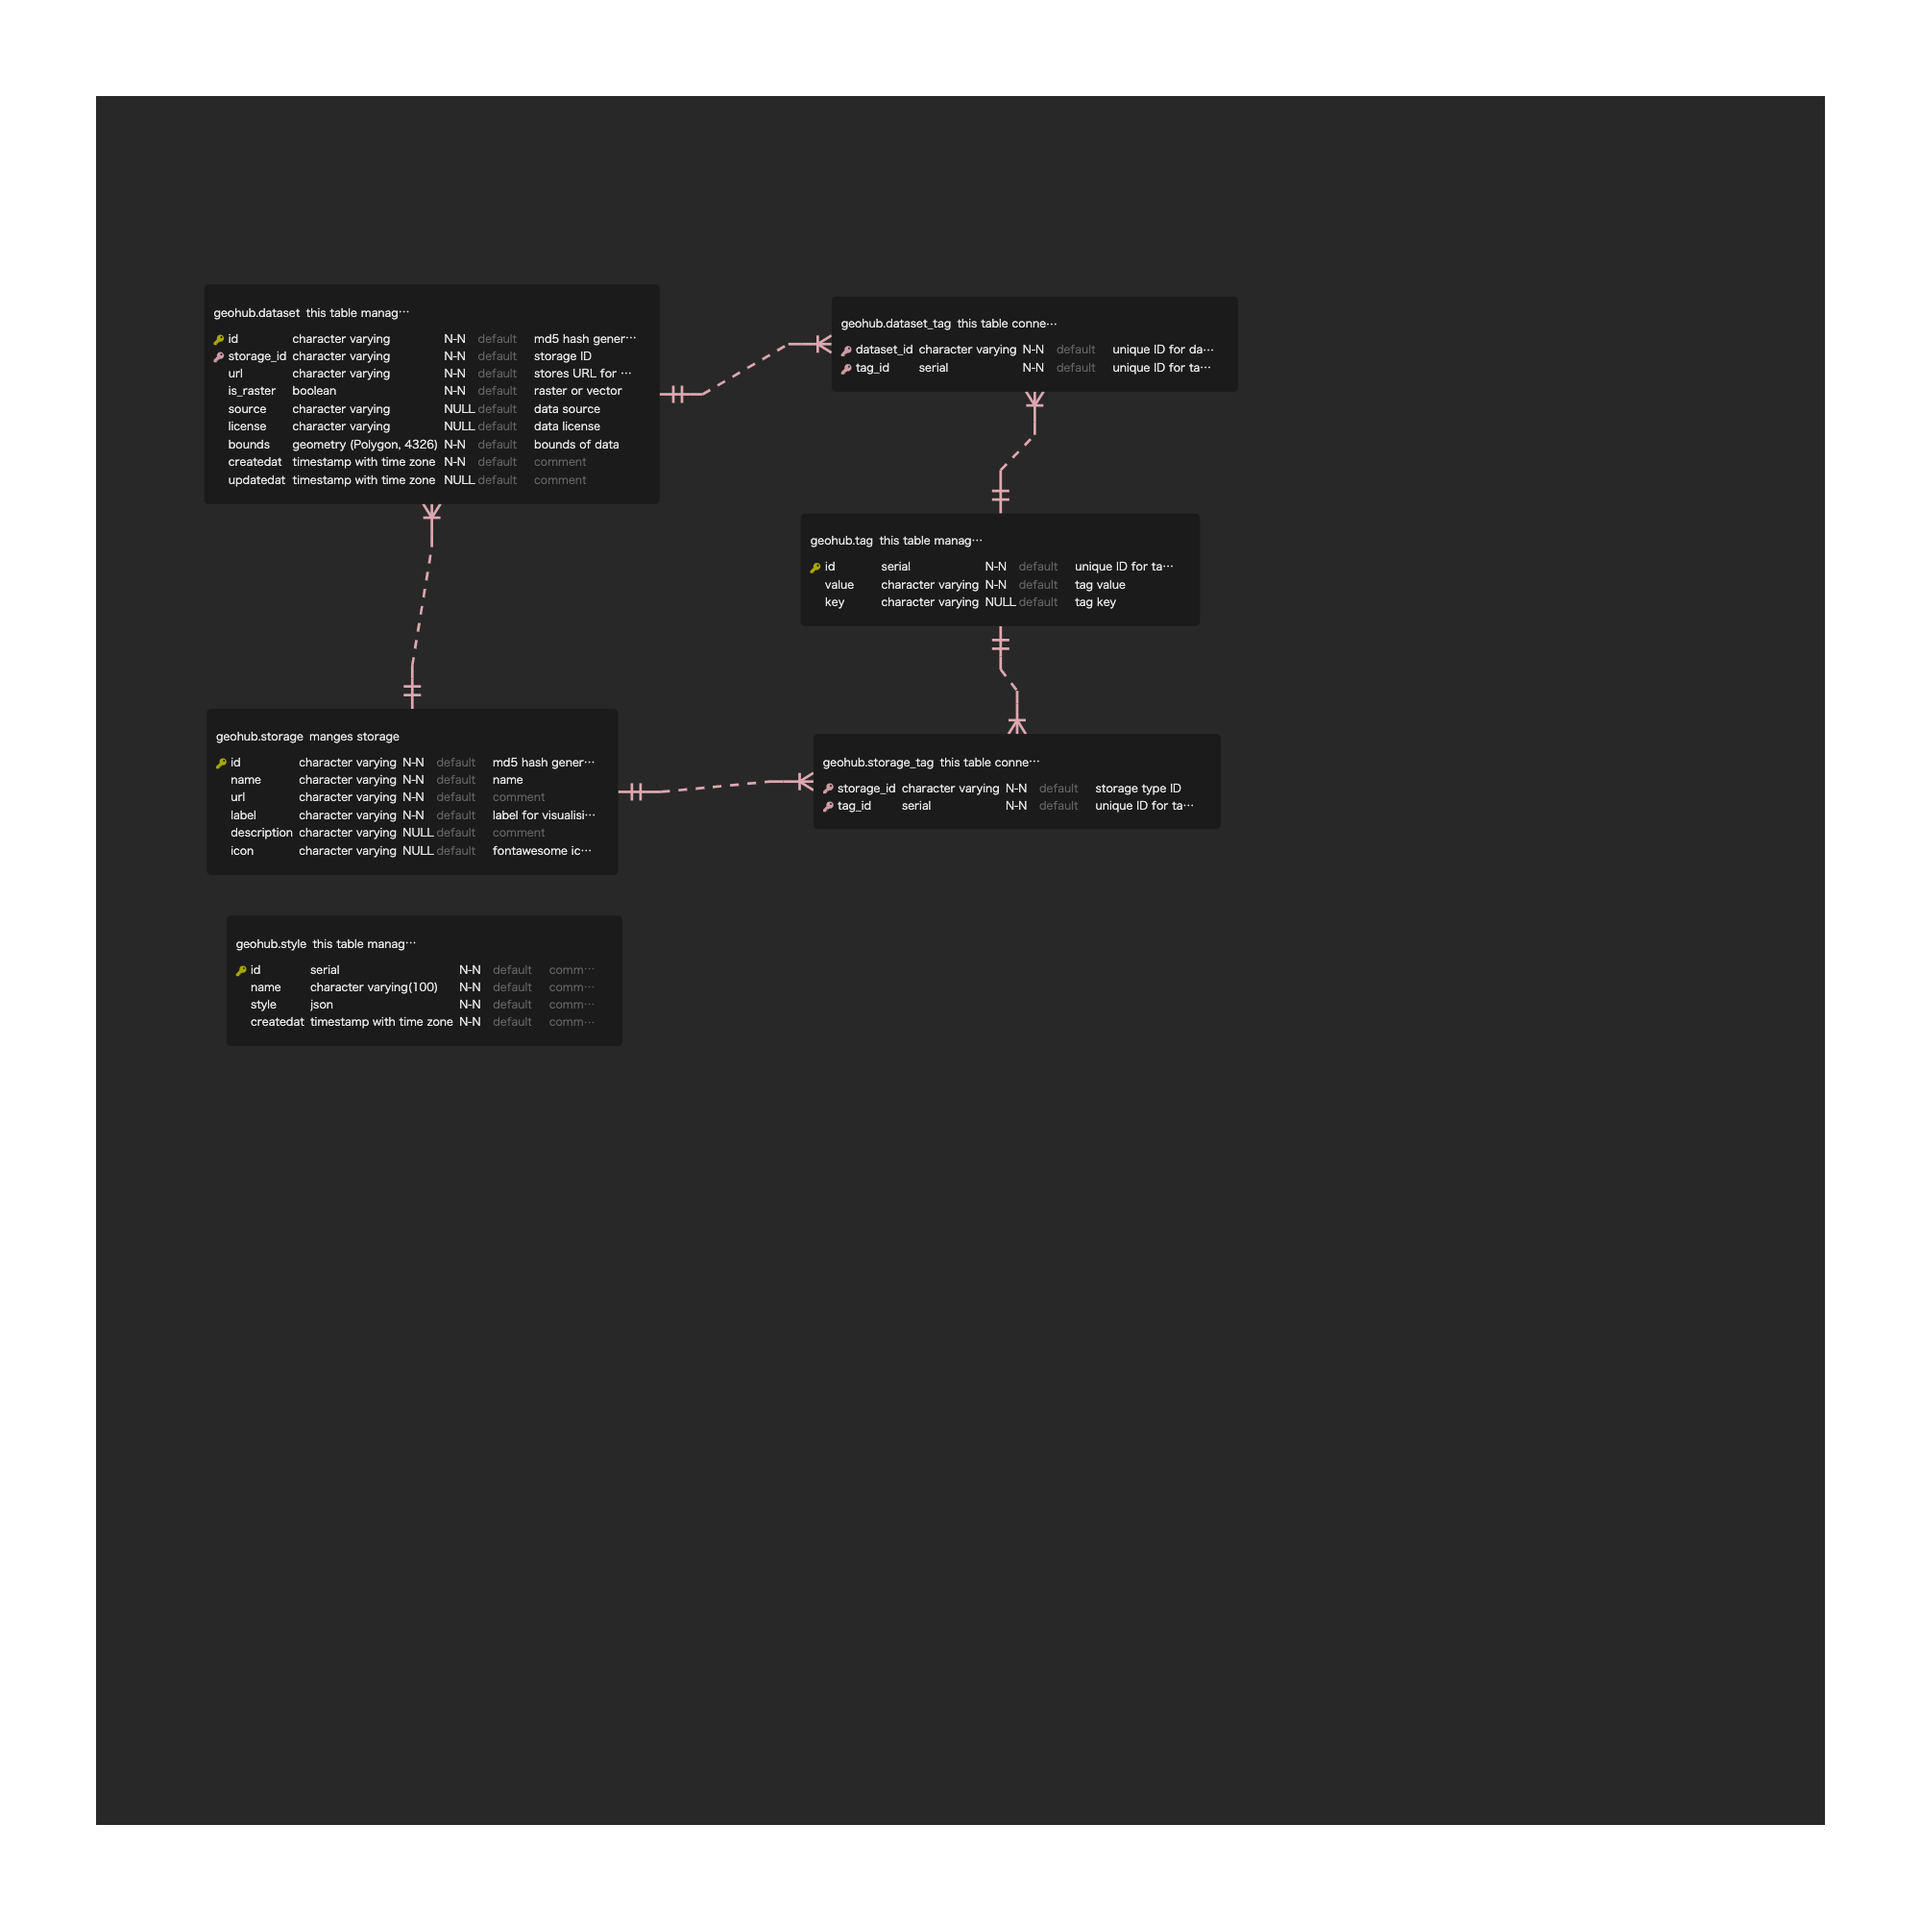
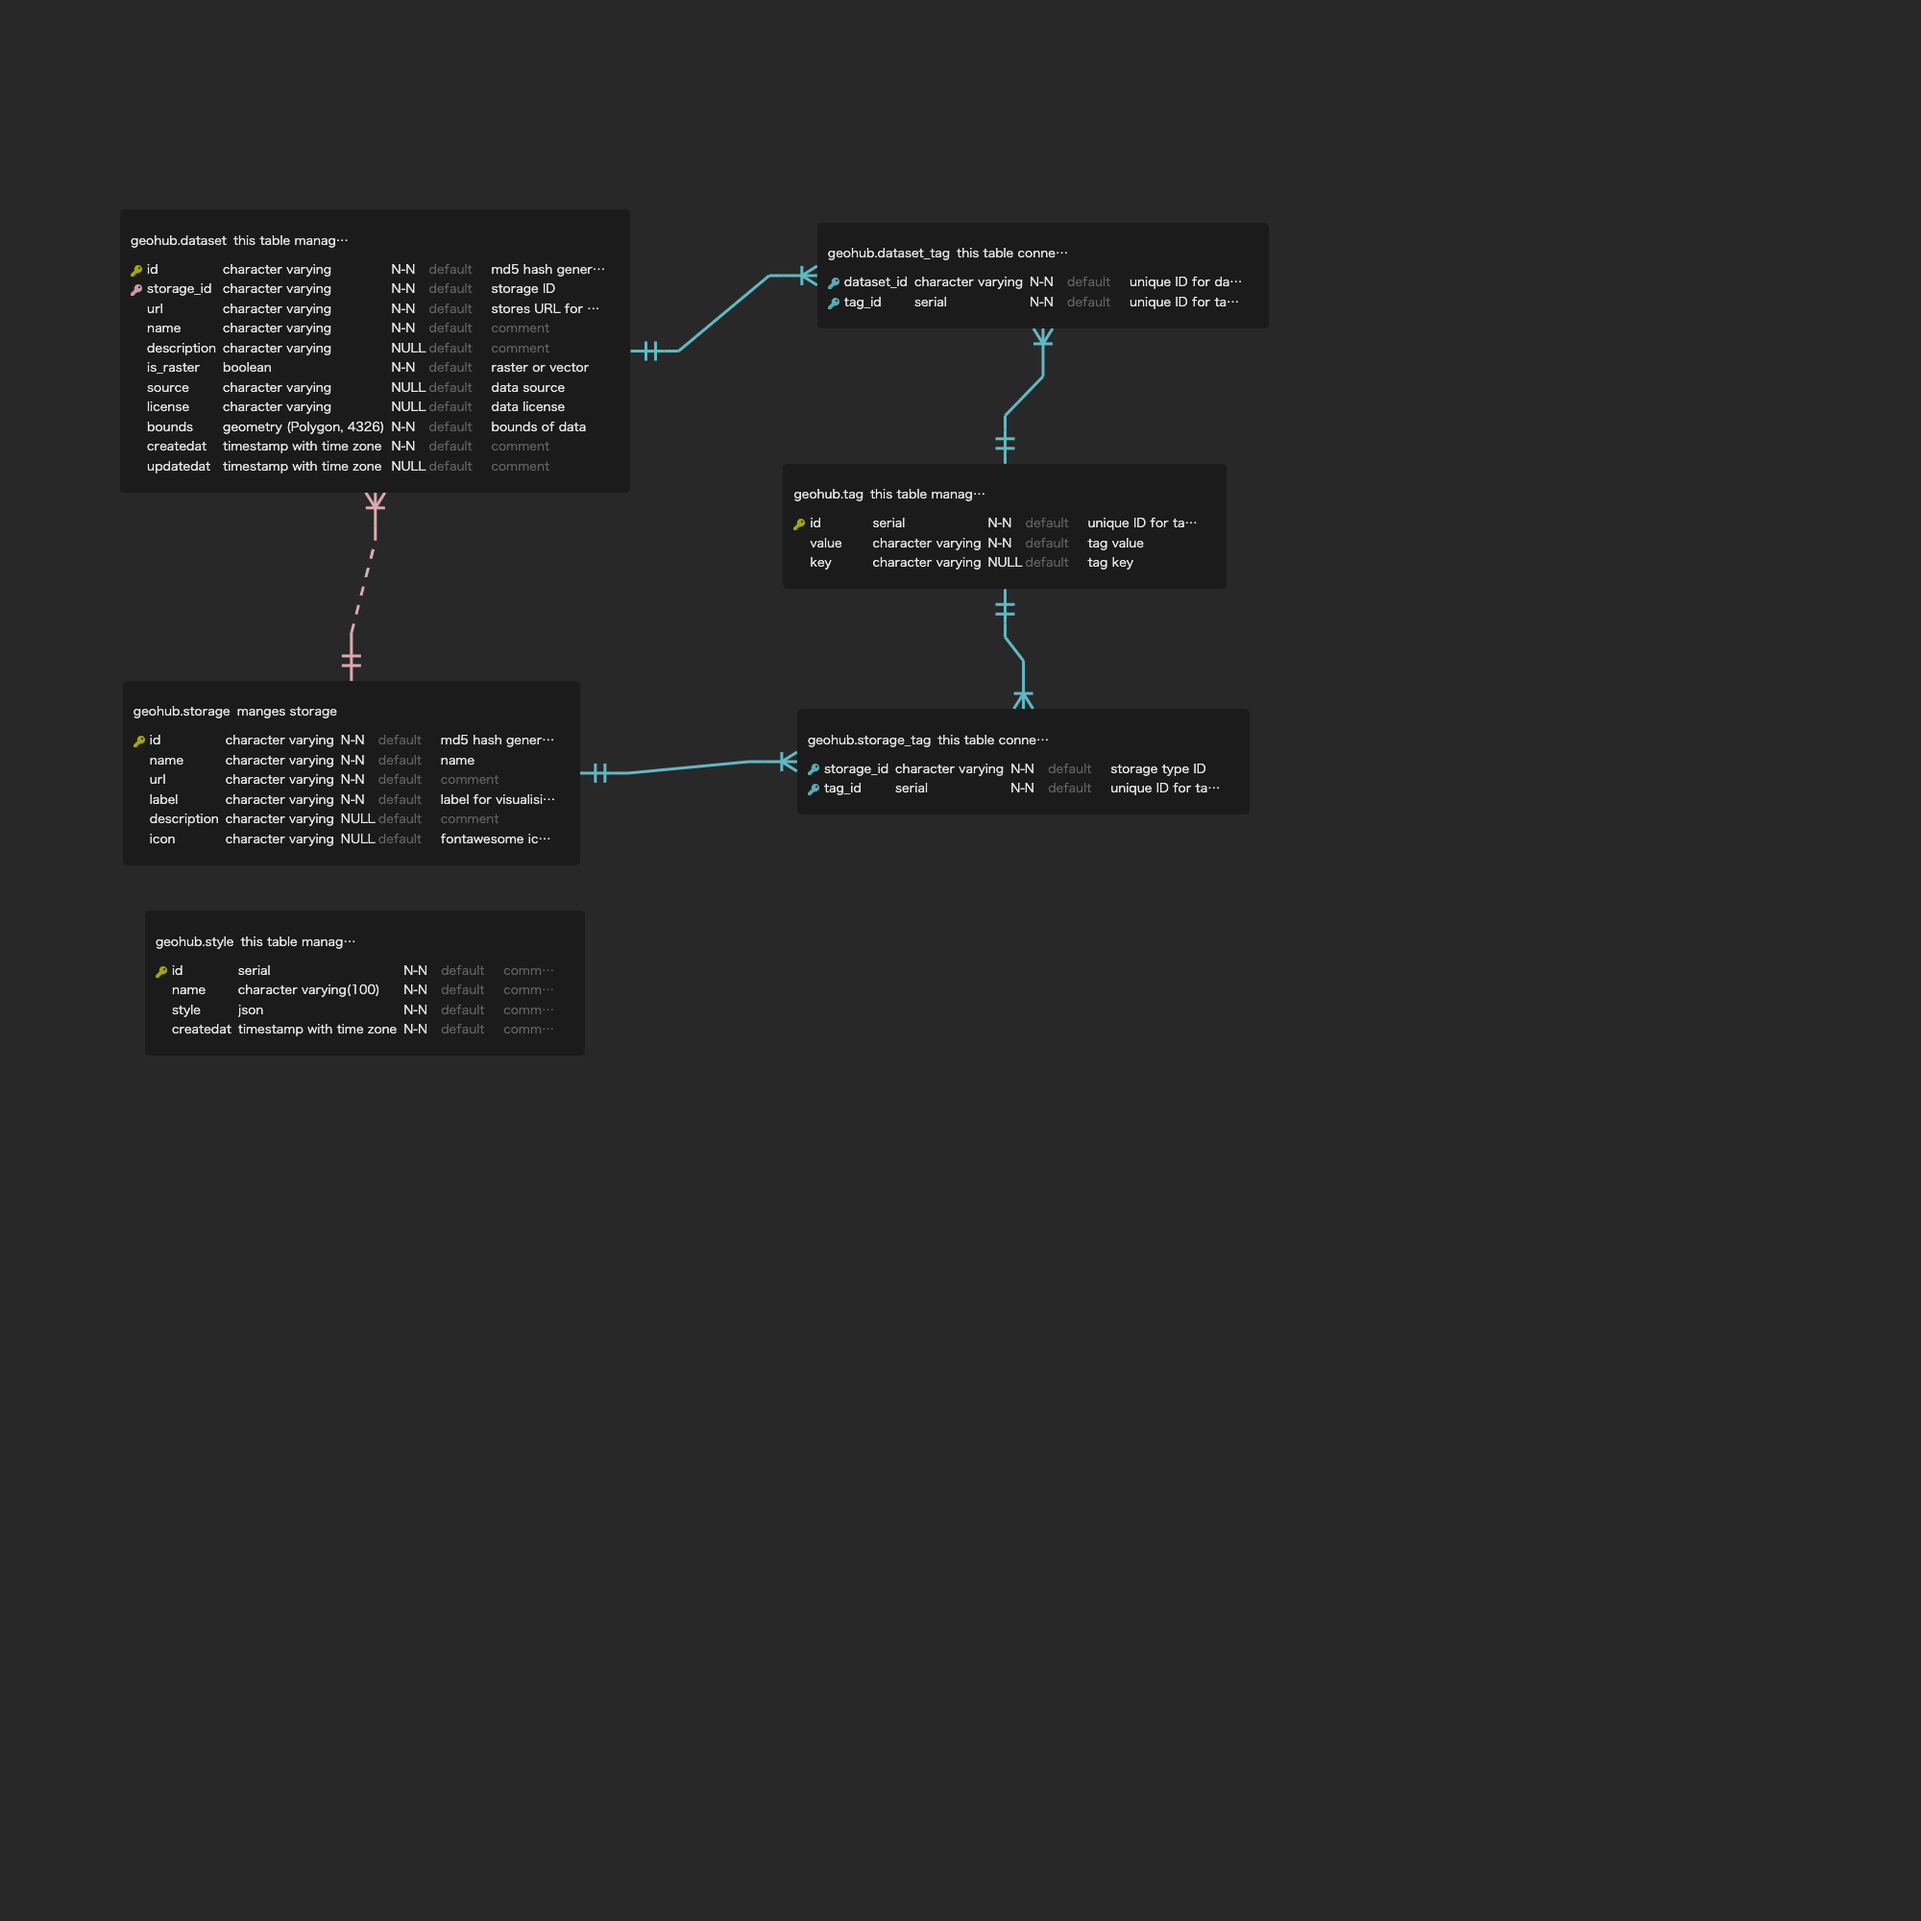
added name, description from metadata (#4)

diff --git a/src/util/BlobServiceAccountManager.ts b/src/util/BlobServiceAccountManager.ts
@@ -4,7 +4,14 @@ import {
 	ServiceListContainersOptions,
 	StorageSharedKeyCredential
 } from '@azure/storage-blob';
-import type { ContainerMetadata, Dataset, Storage, Tag } from '../interfaces';
+import type {
+	BandMetadata,
+	ContainerMetadata,
+	Dataset,
+	RasterTileMetadata,
+	Storage,
+	Tag
+} from '../interfaces';
 import {
 	generateHashKey,
 	generateSasToken,
@@ -148,12 +155,18 @@ class BlobServiceAccountManager {
 
 		const url = blockBlobClient.url;
 		const properties = await blockBlobClient.getProperties();
-		const bounds = isRaster ? await this.getRasterBounds(url) : await this.getVectorBounds(url);
+		const metadata = isRaster
+			? await this.getRasterMetadata(url)
+			: await this.getVectorMetadata(url);
+		const urlObj = new URL(url).pathname.replace('/metadata.json', '').split('/');
 		const dataset: Dataset = {
 			id: generateHashKey(url),
 			url: url,
+			name: urlObj.pop() || '',
 			is_raster: isRaster,
-			bounds: bounds,
+			description: metadata.description,
+			bounds: metadata.bounds,
+			source: metadata.source,
 			storage: storage,
 			tags: tags,
 			createdat: properties.createdOn ? properties.createdOn.toISOString() : '',
@@ -162,25 +175,52 @@ class BlobServiceAccountManager {
 		return dataset;
 	}
 
-	private async getRasterBounds(url: string) {
+	private async getRasterMetadata(url: string) {
 		const fileUrl = `${url}${this.sasToken}`;
-		const apiUrl = `https://titiler.undpgeohub.org/cog/bounds?url=${getBase64EncodedUrl(fileUrl)}`;
+		const apiUrl = `https://titiler.undpgeohub.org/cog/info?url=${getBase64EncodedUrl(fileUrl)}`;
 		const res = await fetch(apiUrl);
-		const json = await res.json();
-		return (json.bounds ? json.bounds : [-180, -90, 180, 90]) as [number, number, number, number];
+		const json: RasterTileMetadata = await res.json();
+		const band_metadata = json.band_metadata;
+		let description: string | undefined;
+		let source: string | undefined;
+		band_metadata?.forEach((band) => {
+			band.forEach((data: string | BandMetadata) => {
+				if (data instanceof String) return;
+				const metadata = data as BandMetadata;
+				description = metadata.Description;
+				source = metadata.Source;
+			});
+		});
+
+		return {
+			bounds: (json.bounds ? json.bounds : [-180, -90, 180, 90]) as [
+				number,
+				number,
+				number,
+				number
+			],
+			description: description,
+			source: source
+		};
 	}
 
-	private async getVectorBounds(url: string) {
+	private async getVectorMetadata(url: string) {
 		const apiUrl = `${url}${this.sasToken}`;
 		const res = await fetch(apiUrl);
 		const metadata = await res.json();
 		const bounds: string = metadata.bounds;
-		return (bounds ? bounds.split(',').map((b) => Number(b)) : [-180, -90, 180, 90]) as [
-			number,
-			number,
-			number,
-			number
-		];
+		const description: string | undefined = metadata.description;
+		const source: string | undefined = metadata.attribution;
+		return {
+			bounds: (bounds ? bounds.split(',').map((b) => Number(b)) : [-180, -90, 180, 90]) as [
+				number,
+				number,
+				number,
+				number
+			],
+			description,
+			source
+		};
 	}
 }
 

diff --git a/src/util/Datasets.ts b/src/util/Datasets.ts
@@ -5,6 +5,7 @@ import fs from 'fs';
 import path from 'path';
 import { Dataset } from '../interfaces';
 import Tags from './Tags';
+import { cleanText } from '../helpers';
 
 class Datasets {
 	private datasets: Dataset[];
@@ -68,9 +69,11 @@ class Datasets {
 				dataset.id,
 				dataset.storage.id,
 				dataset.url,
+				dataset.name,
+				cleanText(dataset.description),
 				dataset.is_raster,
-				dataset.source || '',
-				dataset.license || '',
+				cleanText(dataset.source),
+				cleanText(dataset.license),
 				Buffer.from(geometry.toWkb()).toString('hex'),
 				dataset.createdat,
 				dataset.updatedat
@@ -81,7 +84,7 @@ class Datasets {
 		return new Promise<Dataset[]>((resolve, reject) => {
 			const stream = client.query(
 				copyFrom(
-					'COPY geohub.dataset (id, storage_id, url, is_raster, source, license, bounds, createdat, updatedat) FROM STDIN'
+					'COPY geohub.dataset (id, storage_id, url, name, description, is_raster, source, license, bounds, createdat, updatedat ) FROM STDIN'
 				)
 			);
 			const fileStream = fs.createReadStream(tsvFile);
@@ -152,15 +155,17 @@ class Datasets {
 			${dataset.bounds[2]} ${dataset.bounds[3]},${dataset.bounds[0]} ${dataset.bounds[3]},${dataset.bounds[0]} ${dataset.bounds[1]}))`;
 		const query = {
 			text: `
-			INSERT INTO geohub.dataset (id, storage_id, url, is_raster, source, license, bounds, createdat, updatedat) 
-			values ($1, $2, $3, $4, $5, $6, ST_GeomFROMTEXT('${wkt}', 4326), $7::timestamptz, $8::timestamptz)`,
+			INSERT INTO geohub.dataset (id, storage_id, url, name, description, is_raster, source, license, bounds, createdat, updatedat) 
+			values ($1, $2, $3, $4, $5, $6, $7, $8, ST_GeomFROMTEXT('${wkt}', 4326), $9::timestamptz, $9::timestamptz)`,
 			values: [
 				dataset.id,
 				dataset.storage.id,
 				dataset.url,
+				dataset.name,
+				cleanText(dataset.description),
 				dataset.is_raster,
-				dataset.source,
-				dataset.license,
+				cleanText(dataset.source),
+				cleanText(dataset.license),
 				dataset.createdat,
 				dataset.updatedat
 			]

diff --git a/src/interfaces/RasterTileMetadata.ts b/src/interfaces/RasterTileMetadata.ts
@@ -1,0 +1,29 @@
+export interface BandMetadata {
+	STATISTICS_MAXIMUM?: number;
+	STATISTICS_MEAN?: number;
+	STATISTICS_MINIMUM: number;
+	STATISTICS_STDDEV: number;
+	STATISTICS_VALID_PERCENT: number;
+	STATISTICS_UNIQUE_VALUES?: object;
+	Description?: string;
+	RepresentationType?: string;
+	Source?: string;
+	Unit?: string;
+}
+
+export interface RasterTileMetadata {
+	band_descriptions?: string[];
+	band_metadata?: [string[] | BandMetadata[]];
+	bounds?: [] | string;
+	colorinterp?: [];
+	count?: number;
+	driver?: string;
+	dtype?: string;
+	height?: number;
+	maxzoom?: number;
+	minzoom?: number;
+	nodata_type?: string;
+	nodata_value?: number;
+	overviews?: [];
+	width?: number;
+}

diff --git a/src/interfaces/Dataset.ts b/src/interfaces/Dataset.ts
@@ -5,6 +5,8 @@ export interface Dataset {
 	id: string;
 	url: string;
 	is_raster: boolean;
+	name: string;
+	description?: string;
 	source?: string;
 	license?: string;
 	bounds: [number, number, number, number];

diff --git a/src/helpers/cleanText.ts b/src/helpers/cleanText.ts
@@ -1,0 +1,6 @@
+export const cleanText = (text: string | undefined) => {
+	if (!text) return text;
+	text = text.replace(/\r?\n/g, '');
+	text = text.trim();
+	return text;
+};

diff --git a/src/interfaces/index.ts b/src/interfaces/index.ts
@@ -2,3 +2,4 @@ export * from './ContainerMetadata';
 export * from './Dataset';
 export * from './Storage';
 export * from './Tag';
+export * from './RasterTileMetadata';

diff --git a/src/helpers/index.ts b/src/helpers/index.ts
@@ -1,3 +1,4 @@
+export * from './cleanText';
 export * from './concurrentPromise';
 export * from './generateHashKey';
 export * from './generateSasToken';
